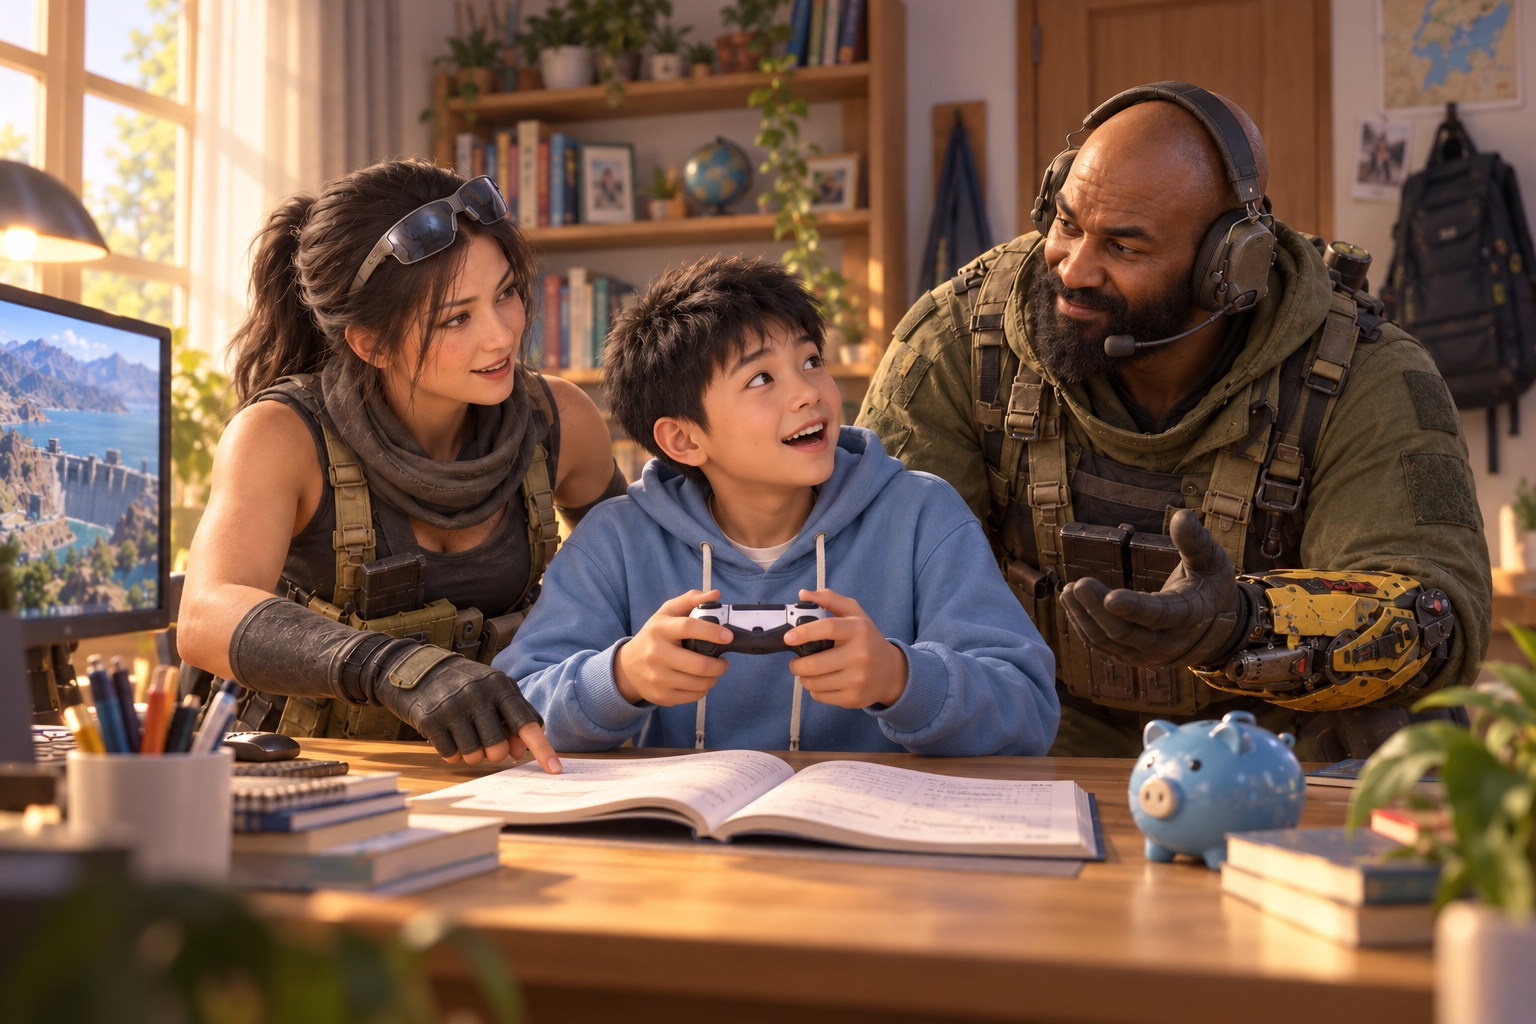
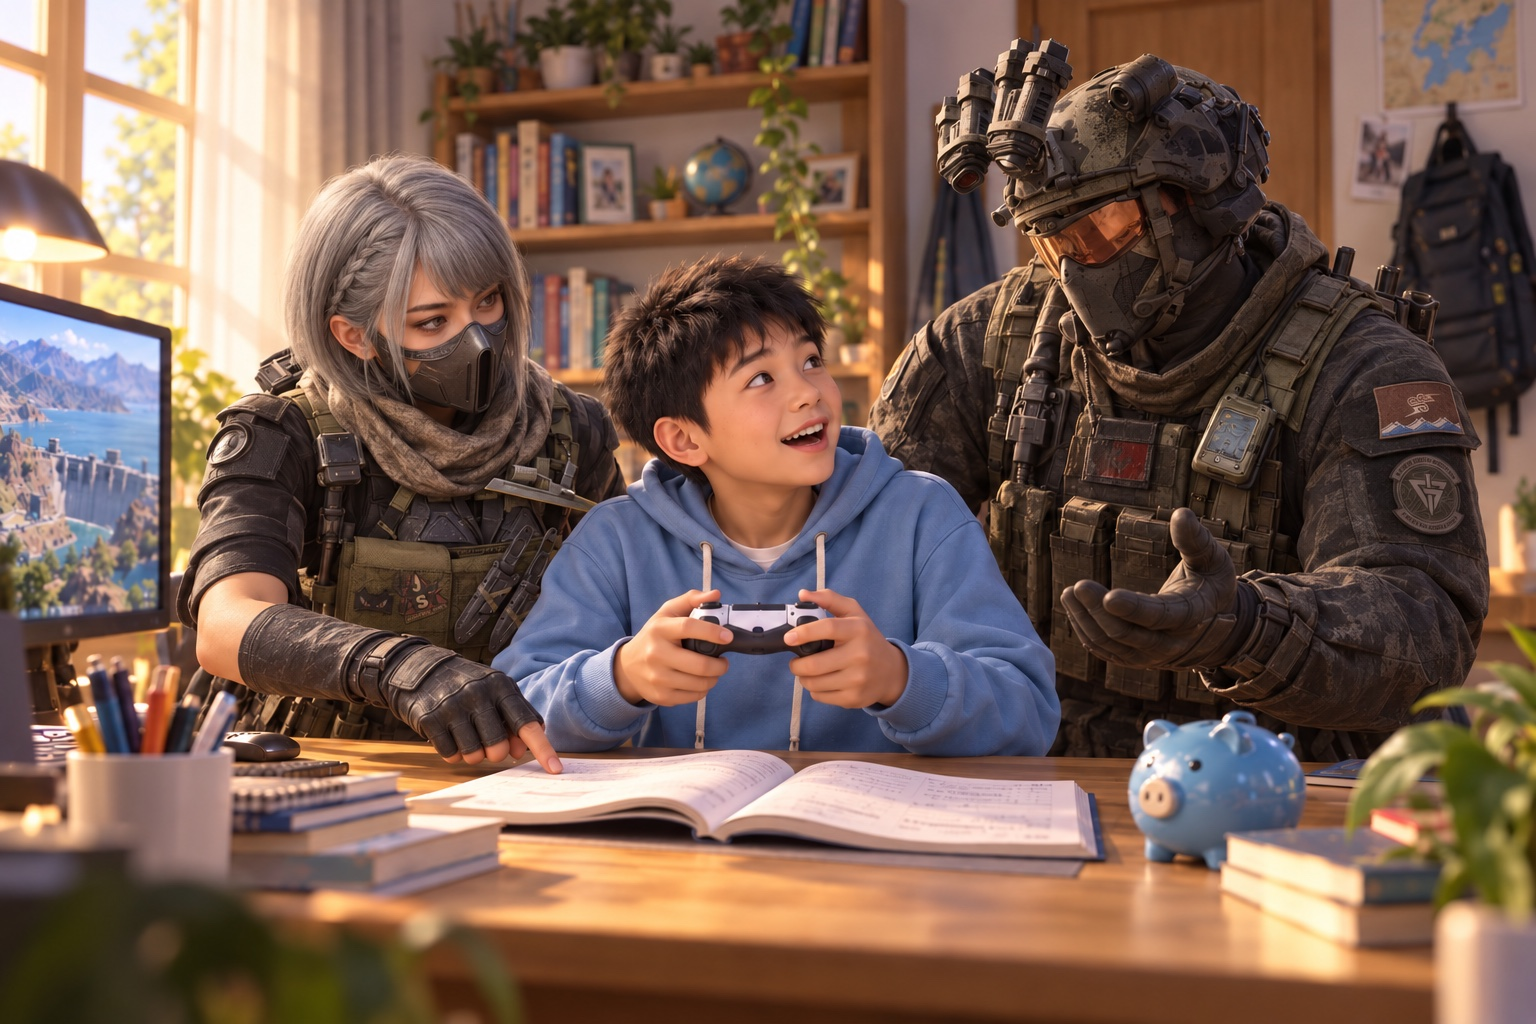
更新三角洲读本插画角色为骇爪与威龙

diff --git a/小学/英语/读本/六年级/an-expensive-wow-2026/assets/readalong/an-expensive-wow.html b/小学/英语/读本/六年级/an-expensive-wow-2026/assets/readalong/an-expensive-wow.html
@@ -94,7 +94,7 @@ body.vocabulary-open{overflow:hidden}
   <section id="newsLesson" class="news-lesson" aria-label="时文语法与新闻来源" hidden><p class="chapter">CHOICES / UPGRADE MYSELF</p><h3 id="grammarTitle"></h3><p id="grammarExample" class="grammar-example" lang="en"></p><p id="grammarExplanation" class="grammar-explanation"></p><details id="grammarExercise"><summary id="grammarQuestion"></summary><p id="grammarAnswer"></p></details><section id="newsReview" class="news-context" aria-label="从课文看到未来" hidden><p class="news-source-heading">从课文看到未来</p><p id="newsConnection" class="grammar-explanation"></p><p id="newsTrend" class="grammar-explanation"></p><p id="newsBoundary" class="grammar-explanation"></p><p id="newsAction" class="grammar-explanation"></p></section><p id="newsNotice" class="news-notice"></p><p class="news-source-heading">事实来源 · 链接需联网打开</p><ul id="newsSources" class="news-sources"></ul></section>
   <section class="news-lesson reader-context" aria-label="理性消费与学习计划读后活动">
     <p class="chapter">THINK BEFORE BUYING / UPGRADE MYSELF</p>
-    <p class="news-notice">Sun Weibo 在想象中与《三角洲行动》的露娜、牧羊人对话。屏幕刀皮参考 S11「重塑」外观，界面为原创教学示意，不展示实际价格或购买入口。故事与插画不是官方剧情或截图。</p>
+    <p class="news-notice">Sun Weibo 在想象中与《三角洲行动》的骇爪（麦晓雯）、威龙对话。屏幕刀皮参考 S11「重塑」外观，界面为原创教学示意，不展示实际价格或购买入口。故事与插画不是官方剧情或截图。</p>
     <h3>买之前，先停一下</h3>
     <p>把一个想买的东西画在纸上，再问自己这三个问题。</p>
     <ol class="wow-questions">
@@ -115,11 +115,11 @@ body.vocabulary-open{overflow:hidden}
     <p class="grammar-example" lang="en">I'll finish my homework first.<br>Then I'll make time for exercise.<br>I'll practise English and upgrade myself.</p>
     <p class="grammar-explanation">先完成作业，再给运动留出时间；练习英语，提升自己的本领。<span lang="en">I'll = I will</span>。试着用 <span lang="en">first / then</span> 把自己的两件事连起来。</p>
     <h3>分角色读一读</h3>
-    <p>三人分别扮演 Sun Weibo、Luna 和 Shepherd。读出 Sun Weibo 从兴奋到犹豫，再到想明白的变化；两位干员用友善、认真、平等的语气提醒他。</p>
+    <p>三人分别扮演 Sun Weibo、Hackclaw 和 Vyron。读出 Sun Weibo 从兴奋到犹豫，再到想明白的变化；两位干员用友善、认真、平等的语气提醒他。</p>
     <details><summary>英语知识点连接</summary><p>六上 Unit 5 用 <span lang="en">I'll… / We'll…</span> 说行动计划；Unit 6 用 <span lang="en">save / waste</span> 和 <span lang="en">will / won't</span> 表达节约与承诺。本册把这些表达用于学习安排和消费选择，迁移表达方法，不是教材课文原句。</p></details>
-    <details><summary>故事与插画说明</summary><p>露娜与牧羊人的外观参考《三角洲行动》官方干员资料，Sun Weibo 与角色到访学习角的情节为原创虚构。<span lang="en">knife skin</span> 指游戏里刀的外观装饰，不是真实刀具；屏幕刀皮参考用户指定的 S11「重塑」外观，界面为原创教学示意，不展示实际价格或购买入口，也不表示它目前在售。不买皮肤不影响一个人值得被尊重，“升级自己”指提升本领。角色立绘核对日期：2026-10-01；刀皮参考图查看日期：2026-10-02。</p></details>
+    <details><summary>故事与插画说明</summary><p>骇爪（麦晓雯）与威龙的外观参考《三角洲行动》官方干员资料，Sun Weibo 与角色到访学习角的情节为原创虚构。<span lang="en">knife skin</span> 指游戏里刀的外观装饰，不是真实刀具；屏幕刀皮参考用户指定的 S11「重塑」外观，界面为原创教学示意，不展示实际价格或购买入口，也不表示它目前在售。不买皮肤不影响一个人值得被尊重，“升级自己”指提升本领。角色立绘核对日期：2026-10-02；刀皮参考图查看日期：2026-10-02。</p></details>
     <p class="news-source-heading">角色与刀皮外观参考 · 链接需联网打开</p>
-    <ul class="news-sources"><li><a href="https://df.qq.com/cp/a20240906main/index.html" target="_blank" rel="noopener noreferrer">《三角洲行动》官方网站·干员资料</a></li><li><a href="https://www.taptap.cn/moment/843948622625115534" target="_blank" rel="noopener noreferrer">《三角洲行动》官方「重塑」演示</a></li><li><a href="https://www.taptap.cn/moment/842703559442041344?group_id=531928" target="_blank" rel="noopener noreferrer">官方圆环细节预告</a></li></ul>
+    <ul class="news-sources"><li><a href="https://www.playdeltaforce.com/en/universe/" target="_blank" rel="noopener noreferrer">《三角洲行动》官方网站·干员世界观</a></li><li><a href="https://www.playdeltaforce.com/en/detail.html?content_id=28ade807a6290a4e6ba8e66ac5ef18bbd7f9&amp;father_content_id=28ade807a6290a4e6ba8e66ac5ef18bbd7f9" target="_blank" rel="noopener noreferrer">官方干员介绍：Hackclaw 与 Vyron</a></li><li><a href="https://www.taptap.cn/moment/843948622625115534" target="_blank" rel="noopener noreferrer">《三角洲行动》官方「重塑」演示</a></li><li><a href="https://www.taptap.cn/moment/842703559442041344?group_id=531928" target="_blank" rel="noopener noreferrer">官方圆环细节预告</a></li></ul>
   </section>
   <footer><span>游戏与选择 · 六年级英语 · 英语合成朗读</span><span>图片与音频随课程加载 · 点击句子可单独听读</span></footer>
   <noscript>请在支持 JavaScript 的浏览器中打开此读本。也可<a href="audio/an-expensive-wow-full.m4a">单独播放完整朗读</a>。</noscript>
@@ -131,7 +131,7 @@ body.vocabulary-open{overflow:hidden}
     <div class="vocabulary-actions"><button class="vocabulary-save" id="vocabularySave" type="button" disabled>保存到生词本</button></div>
   </section>
 </div>
[2 lines of base64/hex data omitted]
 <script>
 'use strict';
 const book=JSON.parse(document.getElementById('book-data').textContent);

diff --git a/小学/英语/读本/六年级/zero-dam-power-2026/assets/readalong/zero-dam-power.html b/小学/英语/读本/六年级/zero-dam-power-2026/assets/readalong/zero-dam-power.html
@@ -94,7 +94,7 @@ body.vocabulary-open{overflow:hidden}
   <section id="newsLesson" class="news-lesson" aria-label="时文语法与新闻来源" hidden><p class="chapter">HYDROPOWER / FOLLOW THE ENERGY</p><h3 id="grammarTitle"></h3><p id="grammarExample" class="grammar-example" lang="en"></p><p id="grammarExplanation" class="grammar-explanation"></p><details id="grammarExercise"><summary id="grammarQuestion"></summary><p id="grammarAnswer"></p></details><section id="newsReview" class="news-context" aria-label="从课文看到未来" hidden><p class="news-source-heading">从课文看到未来</p><p id="newsConnection" class="grammar-explanation"></p><p id="newsTrend" class="grammar-explanation"></p><p id="newsBoundary" class="grammar-explanation"></p><p id="newsAction" class="grammar-explanation"></p></section><p id="newsNotice" class="news-notice"></p><p class="news-source-heading">事实来源 · 链接需联网打开</p><ul id="newsSources" class="news-sources"></ul></section>
   <section class="news-lesson reader-context" aria-label="水力发电读后活动与来源">
     <p class="chapter">FOLLOW THE WATER / FOLLOW THE ENERGY</p>
-    <p class="news-notice">角色与场景参考《三角洲行动》，课堂和内部设备为教学创作。图片是原创插画，非游戏截图；不代表官方剧情或零号大坝的真实内部构造。</p>
+    <p class="news-notice">首图角色为《三角洲行动》的骇爪（麦晓雯）与威龙，场景参考游戏，课堂和内部设备为教学创作。图片是原创插画，非游戏截图；不代表官方剧情或零号大坝的真实内部构造。</p>
     <h3>两条路线，一张图</h3>
     <p>用两种颜色画出不同的路线，再用手指沿着箭头讲一遍。蓝色表示水流，橙色表示能量传递。</p>
     <div class="dam-routes">
@@ -124,7 +124,7 @@ body.vocabulary-open{overflow:hidden}
     <h3>两种时态，各有任务</h3>
     <p><span lang="en">Lin saw a picture. She asked a question.</span> 用一般过去时复述课堂发生的事；<span lang="en">Water flows. The turbine turns.</span> 用一般现在时说明科学过程。</p>
     <p class="grammar-explanation">知识点连接：六上 Unit 1 的一般过去时，以及 Unit 6 的水电词汇、绿色生活与计划表达。水力发电原理是科学拓展，不是教材课文原句。</p>
-    <details><summary>游戏、故事与真实科学</summary><p>零号大坝是《三角洲行动》的游戏地图，本册借它提出科学问题。Lin、老师与课堂演示是原创情节。插画中的角色与场景参考《三角洲行动》，课堂和内部设备为教学创作；其中设备展示常见水库式水电站的简化原理，不是官方剧情、游戏内部设备复刻、游戏截图或工程施工图。不是每座大坝都能发电，也不是所有水电站都需要大型水坝。事实核对日期：2026-10-01。</p></details>
+    <details><summary>游戏、故事与真实科学</summary><p>零号大坝是《三角洲行动》的游戏地图，本册借它提出科学问题。Lin、老师与课堂演示是原创情节。首图中的角色为《三角洲行动》的骇爪（麦晓雯）与威龙，场景参考游戏，课堂和内部设备为教学创作；其中设备展示常见水库式水电站的简化原理，不是官方剧情、游戏内部设备复刻、游戏截图或工程施工图。不是每座大坝都能发电，也不是所有水电站都需要大型水坝。事实核对日期：2026-10-01。</p></details>
     <details><summary>再想一步：只有水管够吗？</summary><p>如果只让水流过管道，却没有水轮机与发电机，就不能靠这个装置发电。大坝储水、机器转动和电能输送各有作用。</p></details>
     <p class="news-source-heading">官方参考 · 链接需联网打开</p>
     <ul class="news-sources"><li><a href="https://df.qq.com/cp/a20240906main/index.html" target="_blank" rel="noopener noreferrer">《三角洲行动》官方游戏资料：零号大坝</a></li><li><a href="https://www.energy.gov/cmei/water/how-hydropower-works" target="_blank" rel="noopener noreferrer">美国能源部：How Hydropower Works</a></li><li><a href="https://www.eia.gov/energyexplained/hydropower/" target="_blank" rel="noopener noreferrer">美国能源信息署：Hydropower explained</a></li><li><a href="https://www.usgs.gov/water-science-school/science/hydroelectric-power-how-it-works" target="_blank" rel="noopener noreferrer">美国地质调查局：Hydroelectric Power: How it Works</a></li></ul>
@@ -139,7 +139,7 @@ body.vocabulary-open{overflow:hidden}
     <div class="vocabulary-actions"><button class="vocabulary-save" id="vocabularySave" type="button" disabled>保存到生词本</button></div>
   </section>
 </div>
[2 lines of base64/hex data omitted]
 <script>
 'use strict';
 const book=JSON.parse(document.getElementById('book-data').textContent);

diff --git a/小学/英语/读本/六年级/an-expensive-wow-2026/reader.md b/小学/英语/读本/六年级/an-expensive-wow-2026/reader.md
@@ -1,15 +1,15 @@
 # An Expensive “Wow” — 好贵的一声“哇”
 
-> 六年级原创游戏主题英语读本。小玩家 Sun Weibo 在想象中与《三角洲行动》的露娜和牧羊人对话，学习安排游戏与学习时间，识别为攀比而消费的冲动，珍惜父母的劳动和金钱。正文采用用户确认的四页、十六条对白。
+> 六年级原创游戏主题英语读本。小玩家 Sun Weibo 在想象中与《三角洲行动》的骇爪（麦晓雯）和威龙对话，学习安排游戏与学习时间，识别为攀比而消费的冲动，珍惜父母的劳动和金钱。正文采用用户确认的四页、十六条对白。
 
 ## 事实来源与教学边界
 
-- 本册是原创虚构教学故事，不是游戏官方剧情。Sun Weibo、两位干员到访学习角以及这些对白均为教学创作；角色外观参考游戏官网实际查看过的露娜与牧羊人立绘。
+- 本册是原创虚构教学故事，不是游戏官方剧情。Sun Weibo、两位干员到访学习角以及这些对白均为教学创作；角色外观参考游戏官网实际查看过的骇爪（麦晓雯）与威龙立绘。
 - `knife skin` 在本册指游戏中刀的外观装饰，不是真实刀具。插画屏幕中的刀皮外观参考用户指定的 S11「重塑」；屏幕排版为教学示意，不展示实际价格或购买入口，也不表示它目前在售。本册不介绍购买方法，不评价具体皮肤数值或战斗属性。
 - 故事针对“为了让别人羡慕，就把父母付钱当成免费”的想法，引导孩子先完成学习任务，给睡眠、运动与适量娱乐留出时间。讨论具体选择与责任，不给孩子贴贬低人格的标签。
 - 不买皮肤不影响一个人值得被尊重。故事中的“升级自己”是练习英语、数学、合作和其他本领的比喻；结尾不是完成作业后就应得到付费皮肤的奖励承诺。
 
-角色外观参考：[《三角洲行动》官方网站·干员资料](https://df.qq.com/cp/a20240906main/index.html)。角色立绘核对日期：2026-10-01。正文、译文、问题与插画为原创教学内容，不是官方截图或官方配音。
+角色外观参考：[《三角洲行动》官方网站·干员世界观](https://www.playdeltaforce.com/en/universe/)、[官方干员介绍：Hackclaw 与 Vyron](https://www.playdeltaforce.com/en/detail.html?content_id=28ade807a6290a4e6ba8e66ac5ef18bbd7f9&father_content_id=28ade807a6290a4e6ba8e66ac5ef18bbd7f9)。角色立绘核对日期：2026-10-02。正文、译文、问题与插画为原创教学内容，不是官方截图或官方配音。
 
 刀皮外观参考：[《三角洲行动》官方「重塑」演示](https://www.taptap.cn/moment/843948622625115534)、[官方圆环细节预告](https://www.taptap.cn/moment/842703559442041344?group_id=531928)。2026-10-02 已查看参考图；读本只借用外观增强故事代入感，不介绍获取方法或消费活动。
 
@@ -18,8 +18,8 @@
 | 句号 | 角色 |
 |---|---|
 | 1、4、5、7、9、12、14、16 | Sun Weibo（小玩家） |
-| 2、6、11、13 | Luna（露娜） |
-| 3、8、10、15 | Shepherd（牧羊人） |
+| 2、6、11、13 | Hackclaw（骇爪·麦晓雯） |
+| 3、8、10、15 | Vyron（威龙） |
 
 ## 四页英文正文与中文辅助
 
@@ -86,4 +86,4 @@
 
 选两个句型说一说：`I'll finish my homework first.` / `I won't waste money to look cool.` / `I'll make time for exercise.` / `I'll practise English and upgrade myself.`
 
-读完后可以三人分角色朗读，试着读出 Sun Weibo 的兴奋、犹豫和想明白后的语气；露娜与牧羊人用友善、认真、平等的方式提醒他。
+读完后可以三人分角色朗读，试着读出 Sun Weibo 的兴奋、犹豫和想明白后的语气；骇爪（麦晓雯）与威龙用友善、认真、平等的方式提醒他。

diff --git a/README.md b/README.md
@@ -113,7 +113,7 @@
 - `name`: 六年级游戏主题读本：好贵的一声“哇”
 - `subject`: `english`
 - `scope`: 小学英语六年级原创游戏主题读本，迁移六上 Unit 5–6 的计划表达、save/waste 与行动顺序
-- `description`: Sun Weibo与想象中的露娜、牧羊人讨论游戏、作业和刀皮消费，分清真实需要与攀比冲动，学会珍惜父母的劳动和金钱、提升自己的本领。
+- `description`: Sun Weibo与想象中的骇爪（麦晓雯）、威龙讨论游戏、作业和刀皮消费，分清真实需要与攀比冲动，学会珍惜父母的劳动和金钱、提升自己的本领。
 - `manifest`: `小学/英语/读本/六年级/an-expensive-wow-2026/manifest.json`
 - `source`: `小学/英语/读本/六年级/an-expensive-wow-2026/reader.md`
 
